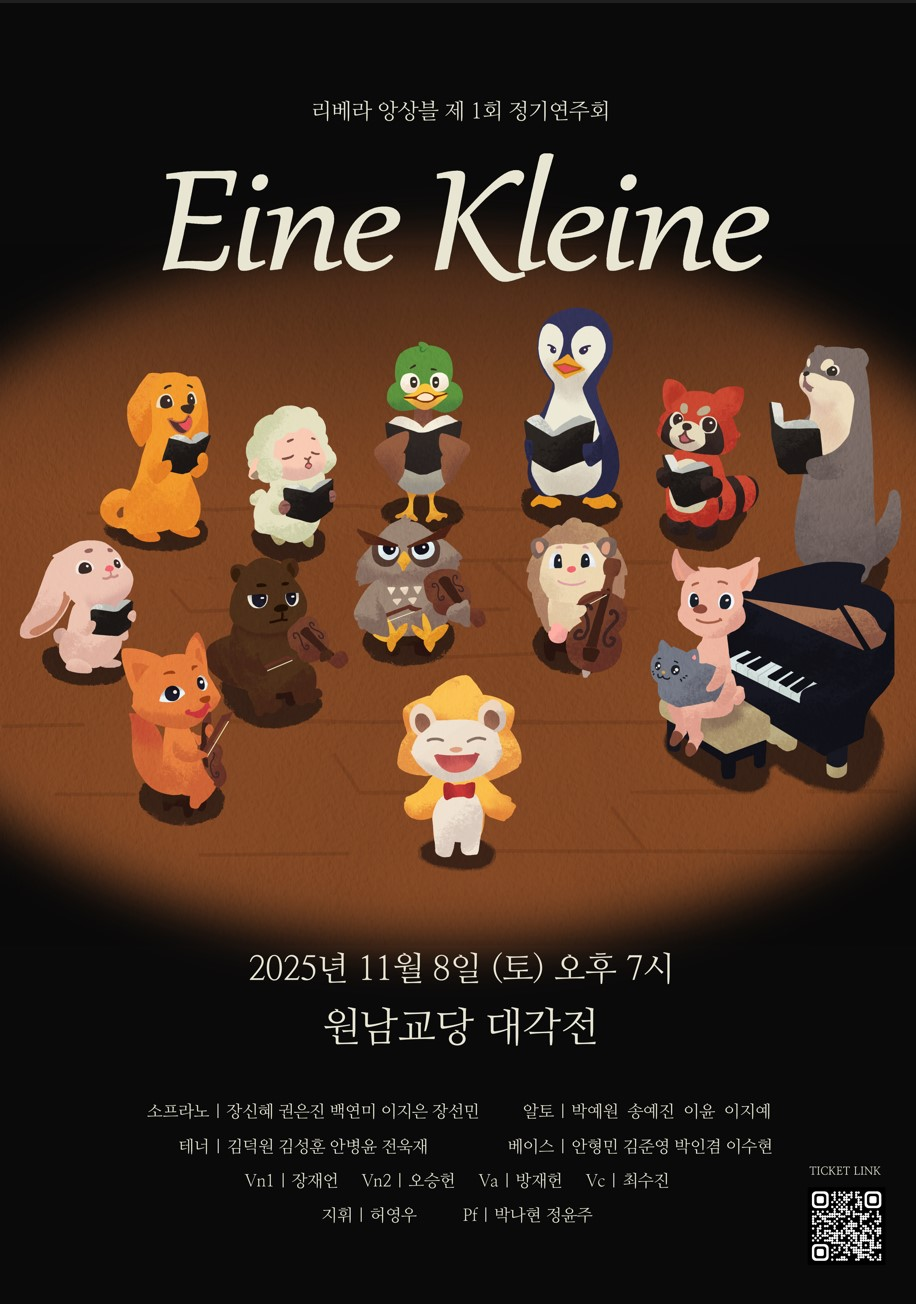
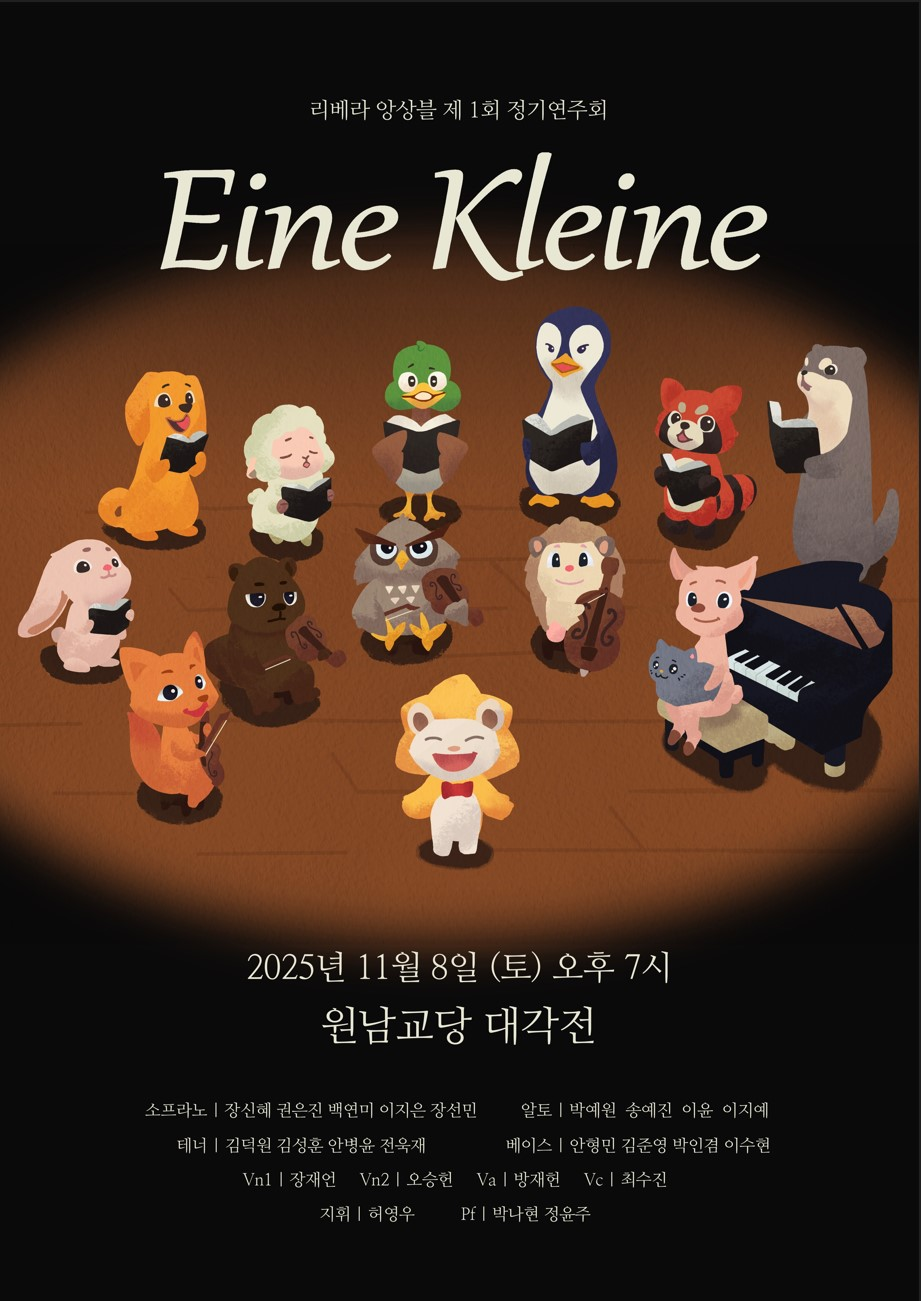
포스터 변경 - QR없는 버전

diff --git a/src/main/resources/templates/index.html b/src/main/resources/templates/index.html
@@ -6,7 +6,7 @@
 <!-- 포스터 -->
 <section class="py-6 sm:py-8">
     <div class="px-4">
-        <img th:src="@{${poster} ?: '/img/Libera_poster.jpg'}"
+        <img th:src="@{${poster} ?: '/img/Libera_poster_resized.jpg'}"
              alt="공연 포스터"
              class="mx-auto block
                 w-full h-auto
@@ -64,7 +64,7 @@
     <div class="absolute inset-0 bg-black/70" onclick="closeProgram()"></div>
     <div class="absolute inset-0 flex items-center justify-center p-4">
         <div class="w-full max-w-3xl">
-            <img th:src="@{${programImage} ?: '/img/Libera_program.jpg'}"
+            <img th:src="@{${programImage} ?: '/img/Libera_program_resized.jpg'}"
                  alt="프로그램 안내"
                  class="w-full h-auto rounded-2xl ring-1 ring-black/10 shadow-xl object-contain" />
             <div class="mt-3 text-center">

diff --git a/src/main/java/com/libera/ticket/api/ApplicationController.java b/src/main/java/com/libera/ticket/api/ApplicationController.java
@@ -23,10 +23,10 @@ public class ApplicationController {
     private final ApplicationMemberRepo memberRepo;
     private final ApplicationService service;
 
-    @Value("${app.event.poster:/img/Libera_poster.jpg}")
+    @Value("${app.event.poster:/img/Libera_poster_resized.jpg}")
     private String poster; // 정적 파일 경로 or 절대 URL
 
-    @Value("${app.event.program_image:/img/Libera_program.jpg}")
+    @Value("${app.event.program_image:/img/Libera_program_resized.jpg}")
     private String programImage; // 정적 파일 경로 or 절대 URL
 
     @GetMapping({"/", "/main"})
